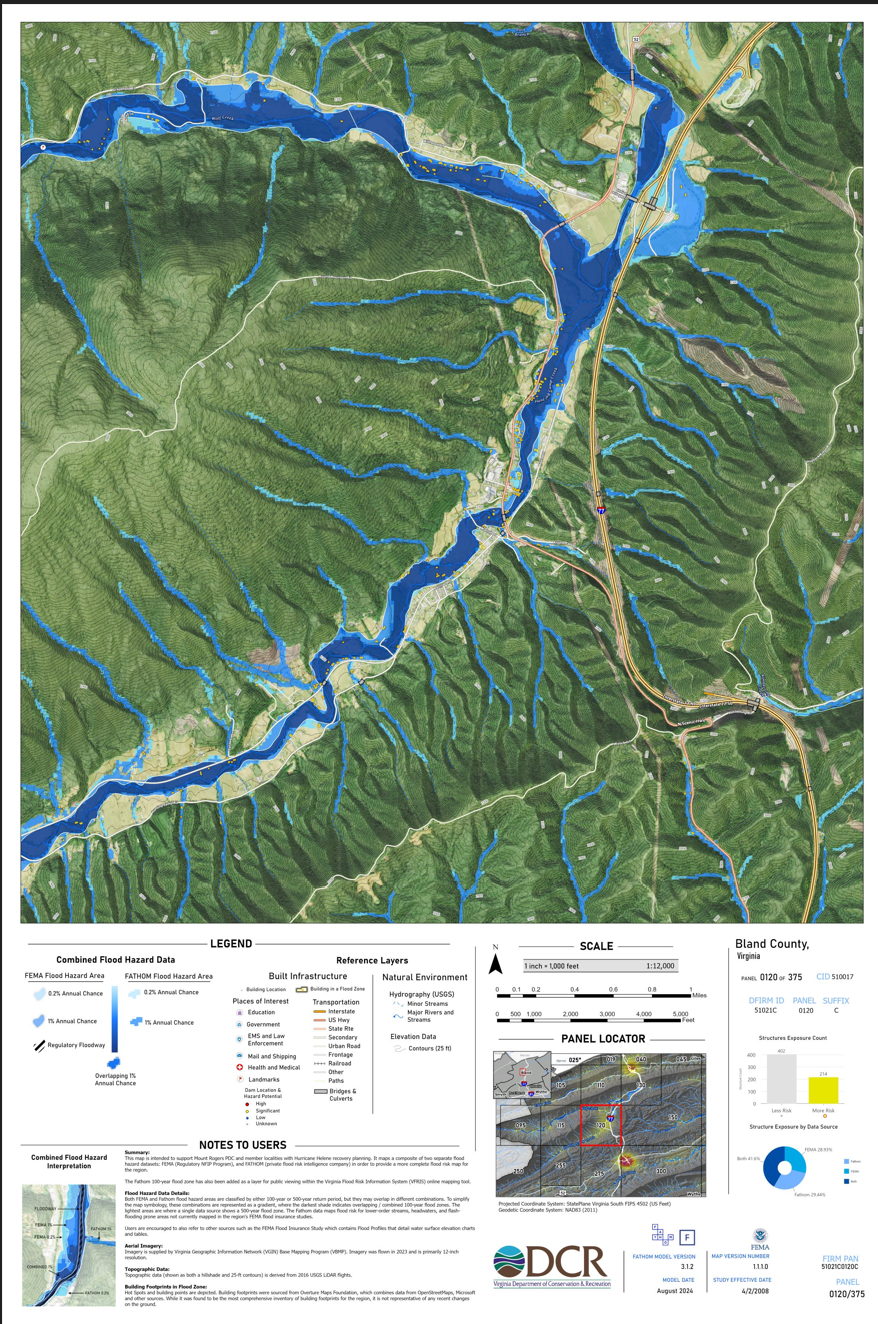
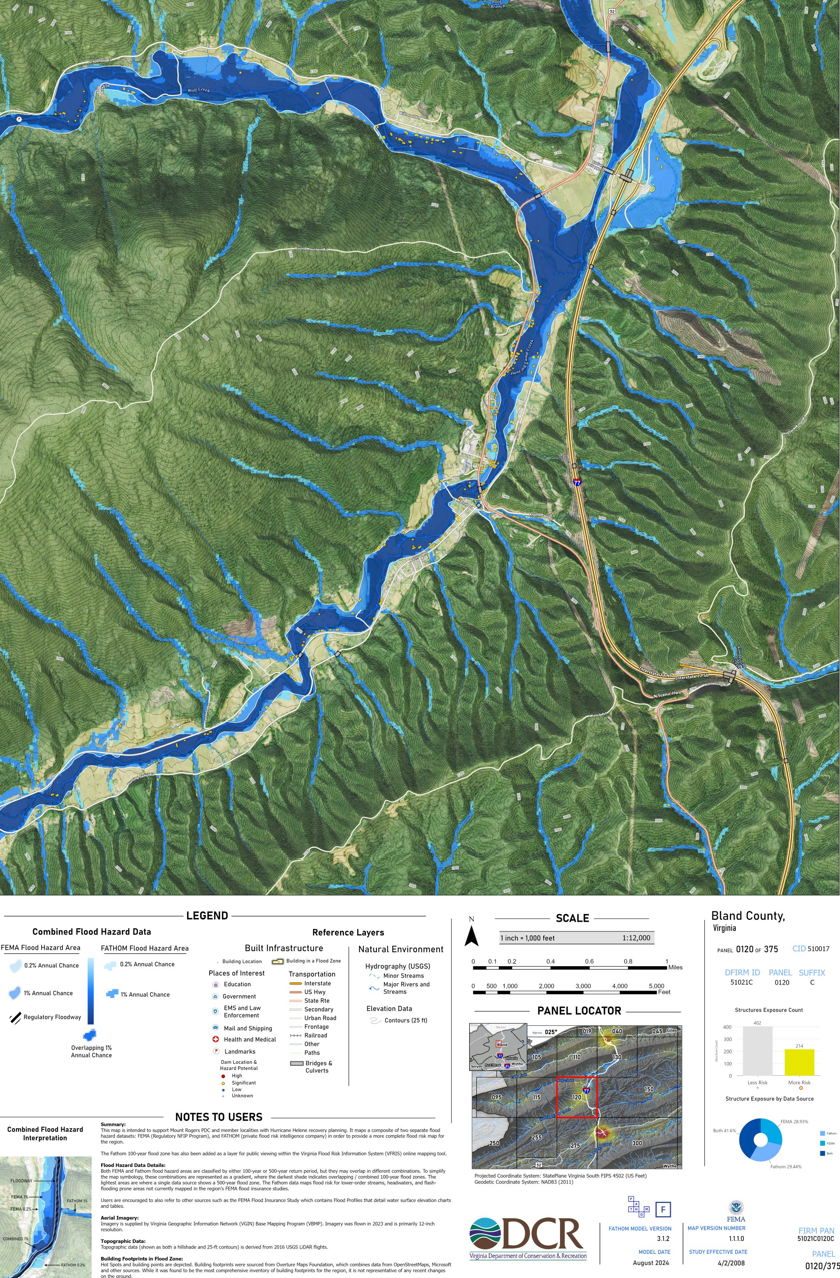
Homoe page css refinements

diff --git a/src/routes/+page.svelte b/src/routes/+page.svelte
@@ -5,12 +5,14 @@
 	import GrafanaImg from '$lib/assets/images/grafana-img.png';
 	import { Badge } from '$lib/components/ui/badge';
 	import { Map, Cog, Download, Palette } from '@lucide/svelte';
-	import { abort } from 'process';
 </script>
 
 <div class="flex min-h-full flex-col gap-4 overflow-y-auto md:h-full md:overflow-hidden md:p-2">
 	<!-- flex-[2] makes this box take up 2 portions -->
-	<a href="/full-stack" class="flex-2 rounded-xl bg-muted/50">
+	<a
+		href="/full-stack"
+		class="flex-2 rounded-xl bg-muted/50 ring-1 ring-transparent transition-all duration-300 hover:bg-muted/40 hover:ring-border"
+	>
 		<!-- Content Section -->
 		<div class="relative z-10 px-2 md:px-8">
 			<!-- Title -->
@@ -19,10 +21,14 @@
 			</h1>
 			<div class="flex flex-col items-center justify-center">
 				<div class="w-full max-w-4xl">
-					<div class="overflow-hidden rounded-2xl border bg-card shadow-2xl">
+					<div class="mask-y-from-95% mask-y-to-100% mask-x-from-95% mask-x-to-100%">
 						<!-- Banner Image with Overlay -->
 						<div class="relative w-full">
-							<img src={HomeBanner} alt="Teramap Banner" class="h-36 w-full object-cover md:h-48" />
+							<img
+								src={HomeBanner}
+								alt="Teramap Banner"
+								class="h-36 w-full object-cover transition-transform duration-500 group-hover:scale-101 md:h-48"
+							/>
 							<div
 								class="absolute inset-0 bg-linear-to-t from-card via-transparent to-transparent"
 							></div>
@@ -69,7 +75,7 @@
 				</ul>
 				<img
 					src={GrafanaImg}
-					class="mx-auto mt-4 w-64 rounded-2xl border bg-card shadow-2xl"
+					class="mx-auto w-64 rounded-2xl mask-y-from-90% mask-y-to-100% mask-x-from-90% mask-x-to-100% shadow-xl"
 					alt="Grafana Screenshot"
 				/>
 			</div>
@@ -77,25 +83,43 @@
 	>
 
 	<div class="grid flex-1 grid-cols-3 gap-2 md:gap-4">
-		<a href="/geospatial" class="rounded-xl bg-muted/50"
-			><h1 class="m-1 mx-2 flex justify-start pt-2 text-lg text-muted-foreground md:text-xl">
+		<a
+			href="/geospatial"
+			class="group flex flex-col overflow-hidden rounded-xl bg-muted/50 ring-1 ring-transparent transition-all duration-300 hover:bg-muted/40 hover:ring-border"
+		>
+			<h1 class="mx-3 flex justify-start pt-2 text-lg text-muted-foreground md:text-xl">
 				Geospatial
 			</h1>
-			<div class="relative w-full">
-				<img src={SWVAMap} alt="Teramap Banner" class="h-36 w-full object-cover md:h-48" />
-				<div class="absolute inset-0 bg-linear-to-t from-card via-transparent to-transparent"></div>
-			</div></a
+			<div class="mt-2 w-full overflow-hidden rounded-b-xl">
+				<img
+					src={SWVAMap}
+					alt="Geospatial map"
+					class="h-32 w-full mask-y-from-80% mask-y-to-90% mask-x-from-90% mask-x-to-95% object-cover transition-transform duration-500 group-hover:scale-101 md:h-44"
+				/>
+			</div>
+		</a>
+		<a
+			href="/landscape"
+			class="group flex flex-col overflow-hidden rounded-xl bg-muted/50 ring-1 ring-transparent transition-all duration-300 hover:bg-muted/40 hover:ring-border"
 		>
-		<a href="/resume" class="rounded-xl bg-muted/50"
-			><h1 class="mx-2 flex justify-start pt-2 text-lg text-muted-foreground md:text-xl">
+			<h1 class="mx-3 flex justify-start pt-2 text-lg text-muted-foreground md:text-xl">
 				Landscape
 			</h1>
-			<img src={Carverponics} alt="Teramap Banner" class="h-36 w-full object-cover md:h-48" /></a
+			<div class="mt-2 w-full overflow-hidden rounded-b-xl">
+				<img
+					src={Carverponics}
+					alt="Landscape aquaponics"
+					class="h-32 w-full mask-y-from-80% mask-y-to-90% mask-x-from-90% mask-x-to-95% object-cover transition-transform duration-500 group-hover:scale-101 md:h-44"
+				/>
+			</div>
+		</a>
+		<a
+			href="/community"
+			class="group flex flex-col overflow-hidden rounded-xl bg-muted/50 ring-1 ring-transparent transition-all duration-300 hover:bg-muted/40 hover:ring-border"
 		>
-		<a href="/community" class="rounded-xl bg-muted/50">
-			<h1 class="m-1 mx-2 flex justify-start pt-2 text-lg text-muted-foreground md:text-xl">
-				Resume
-			</h1></a
-		>
+			<h1 class="mx-3 flex justify-start pt-2 text-lg text-muted-foreground md:text-xl">
+				Community
+			</h1>
+		</a>
 	</div>
 </div>
